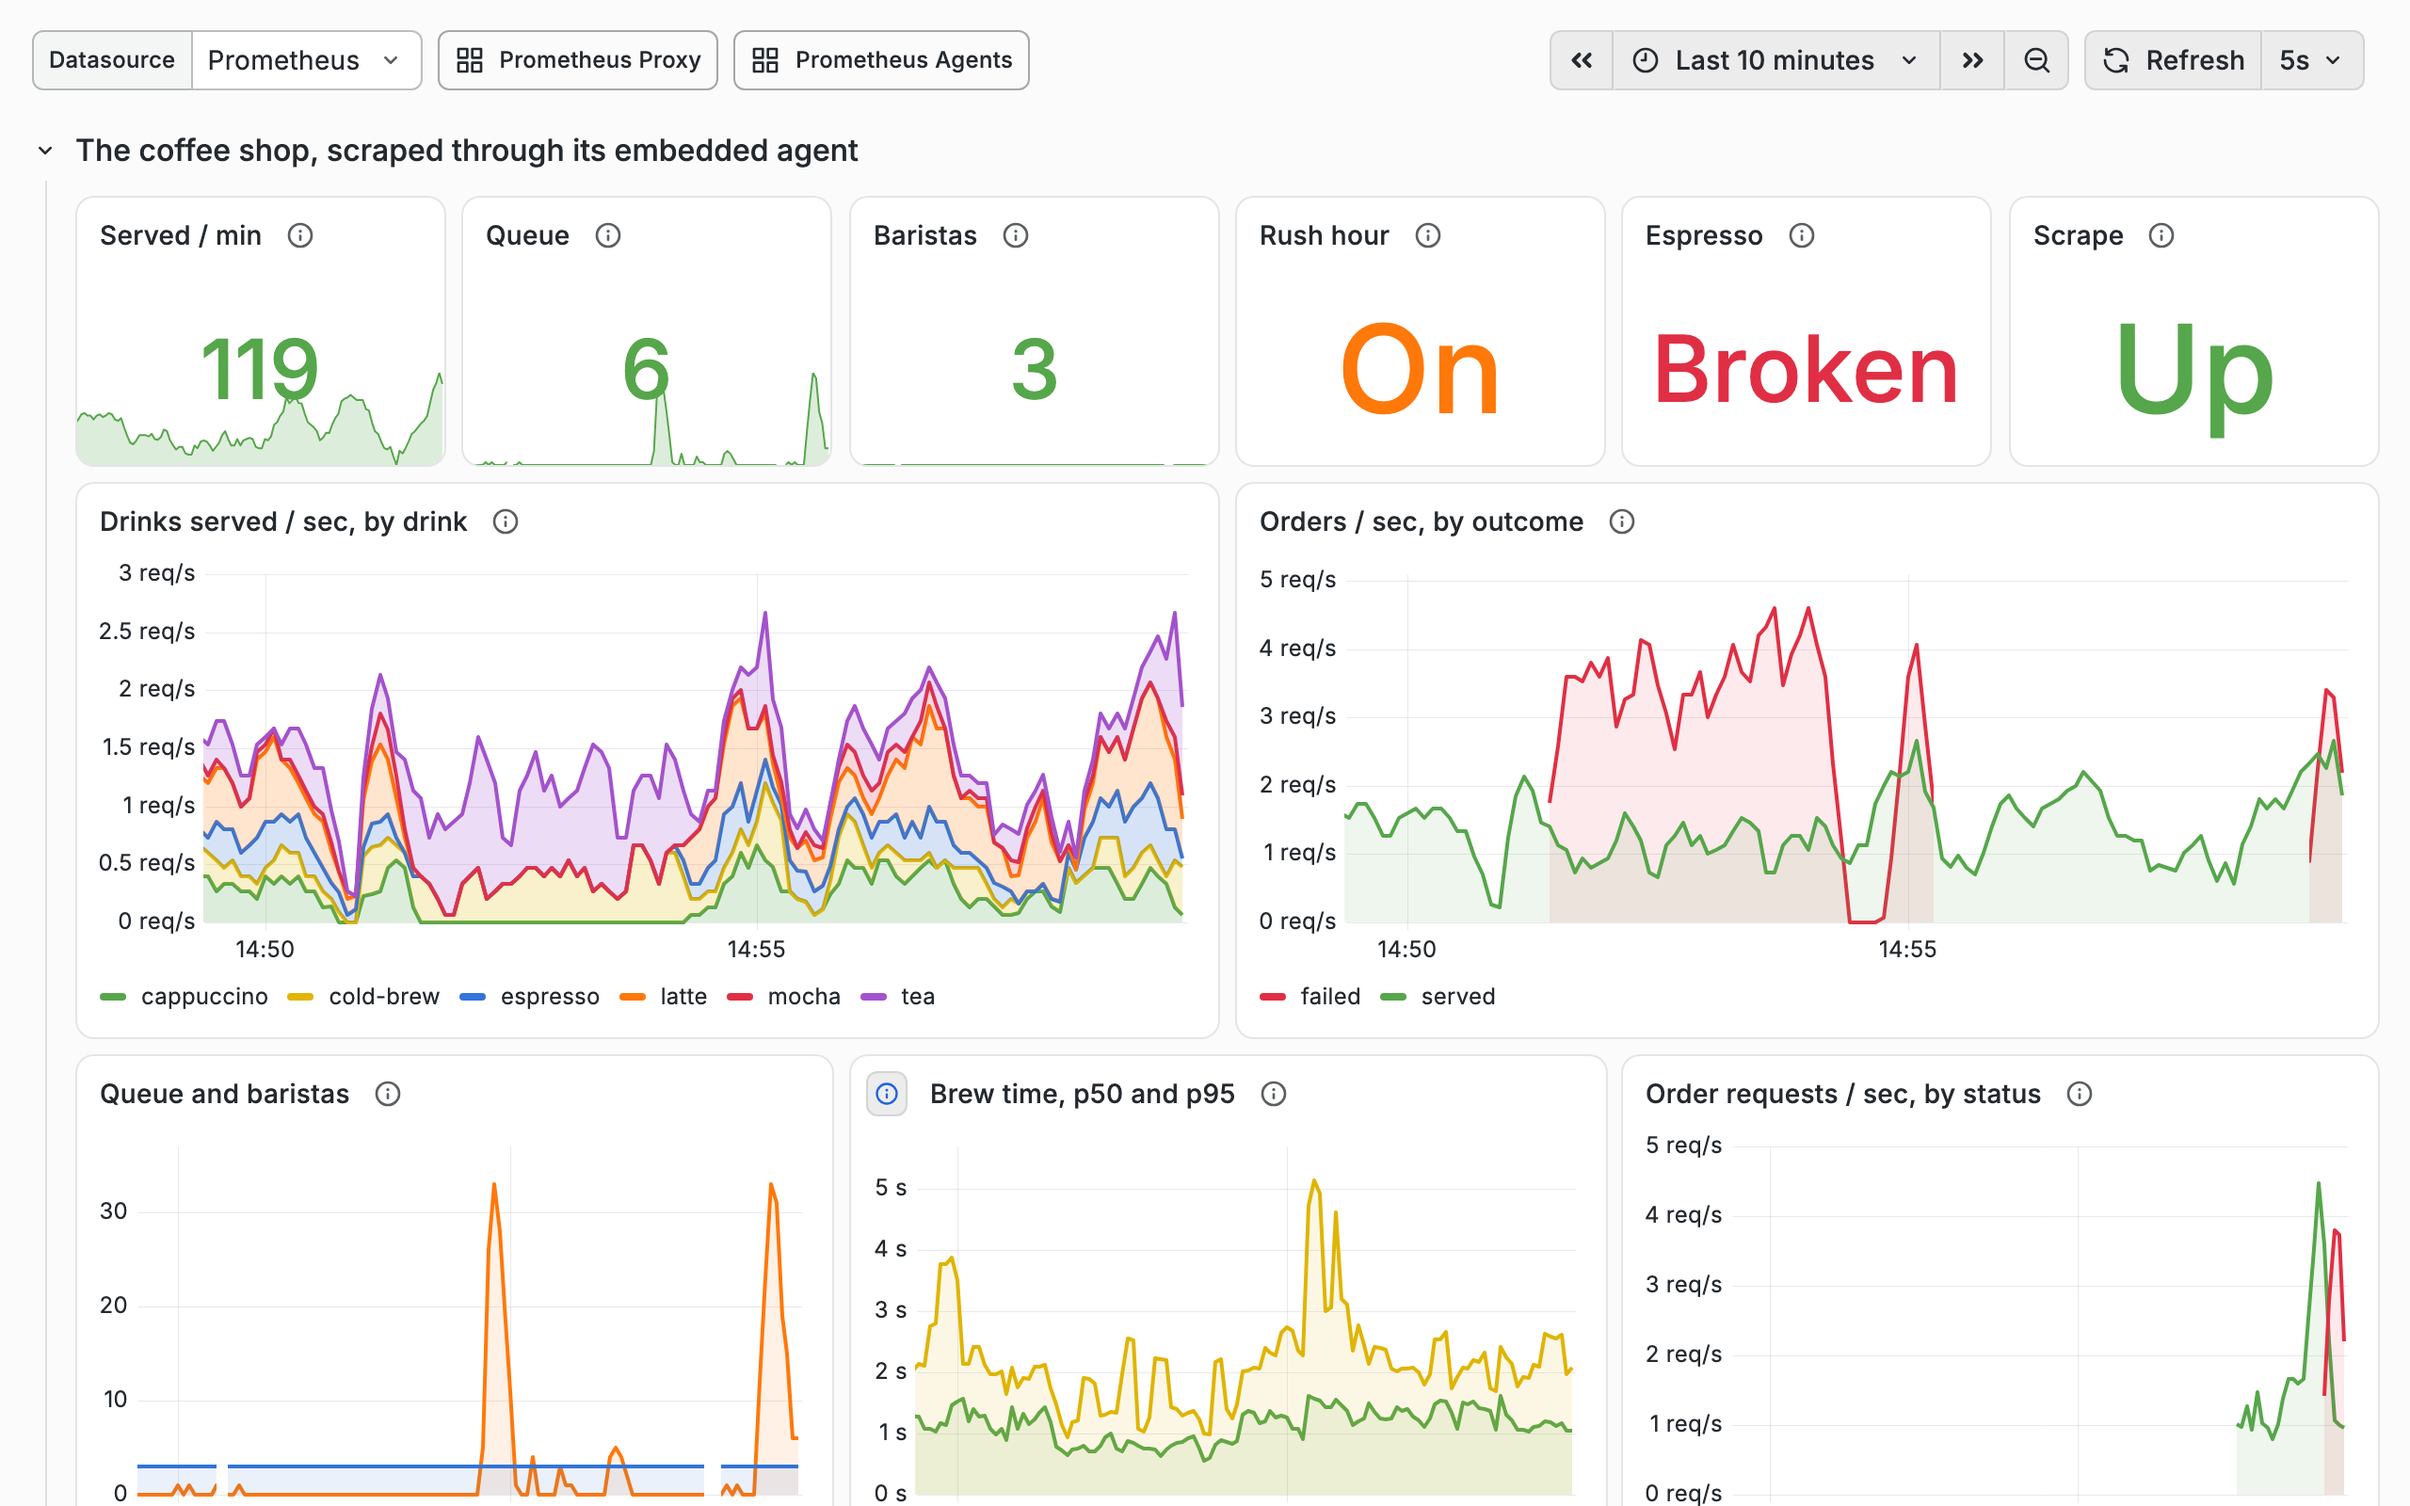
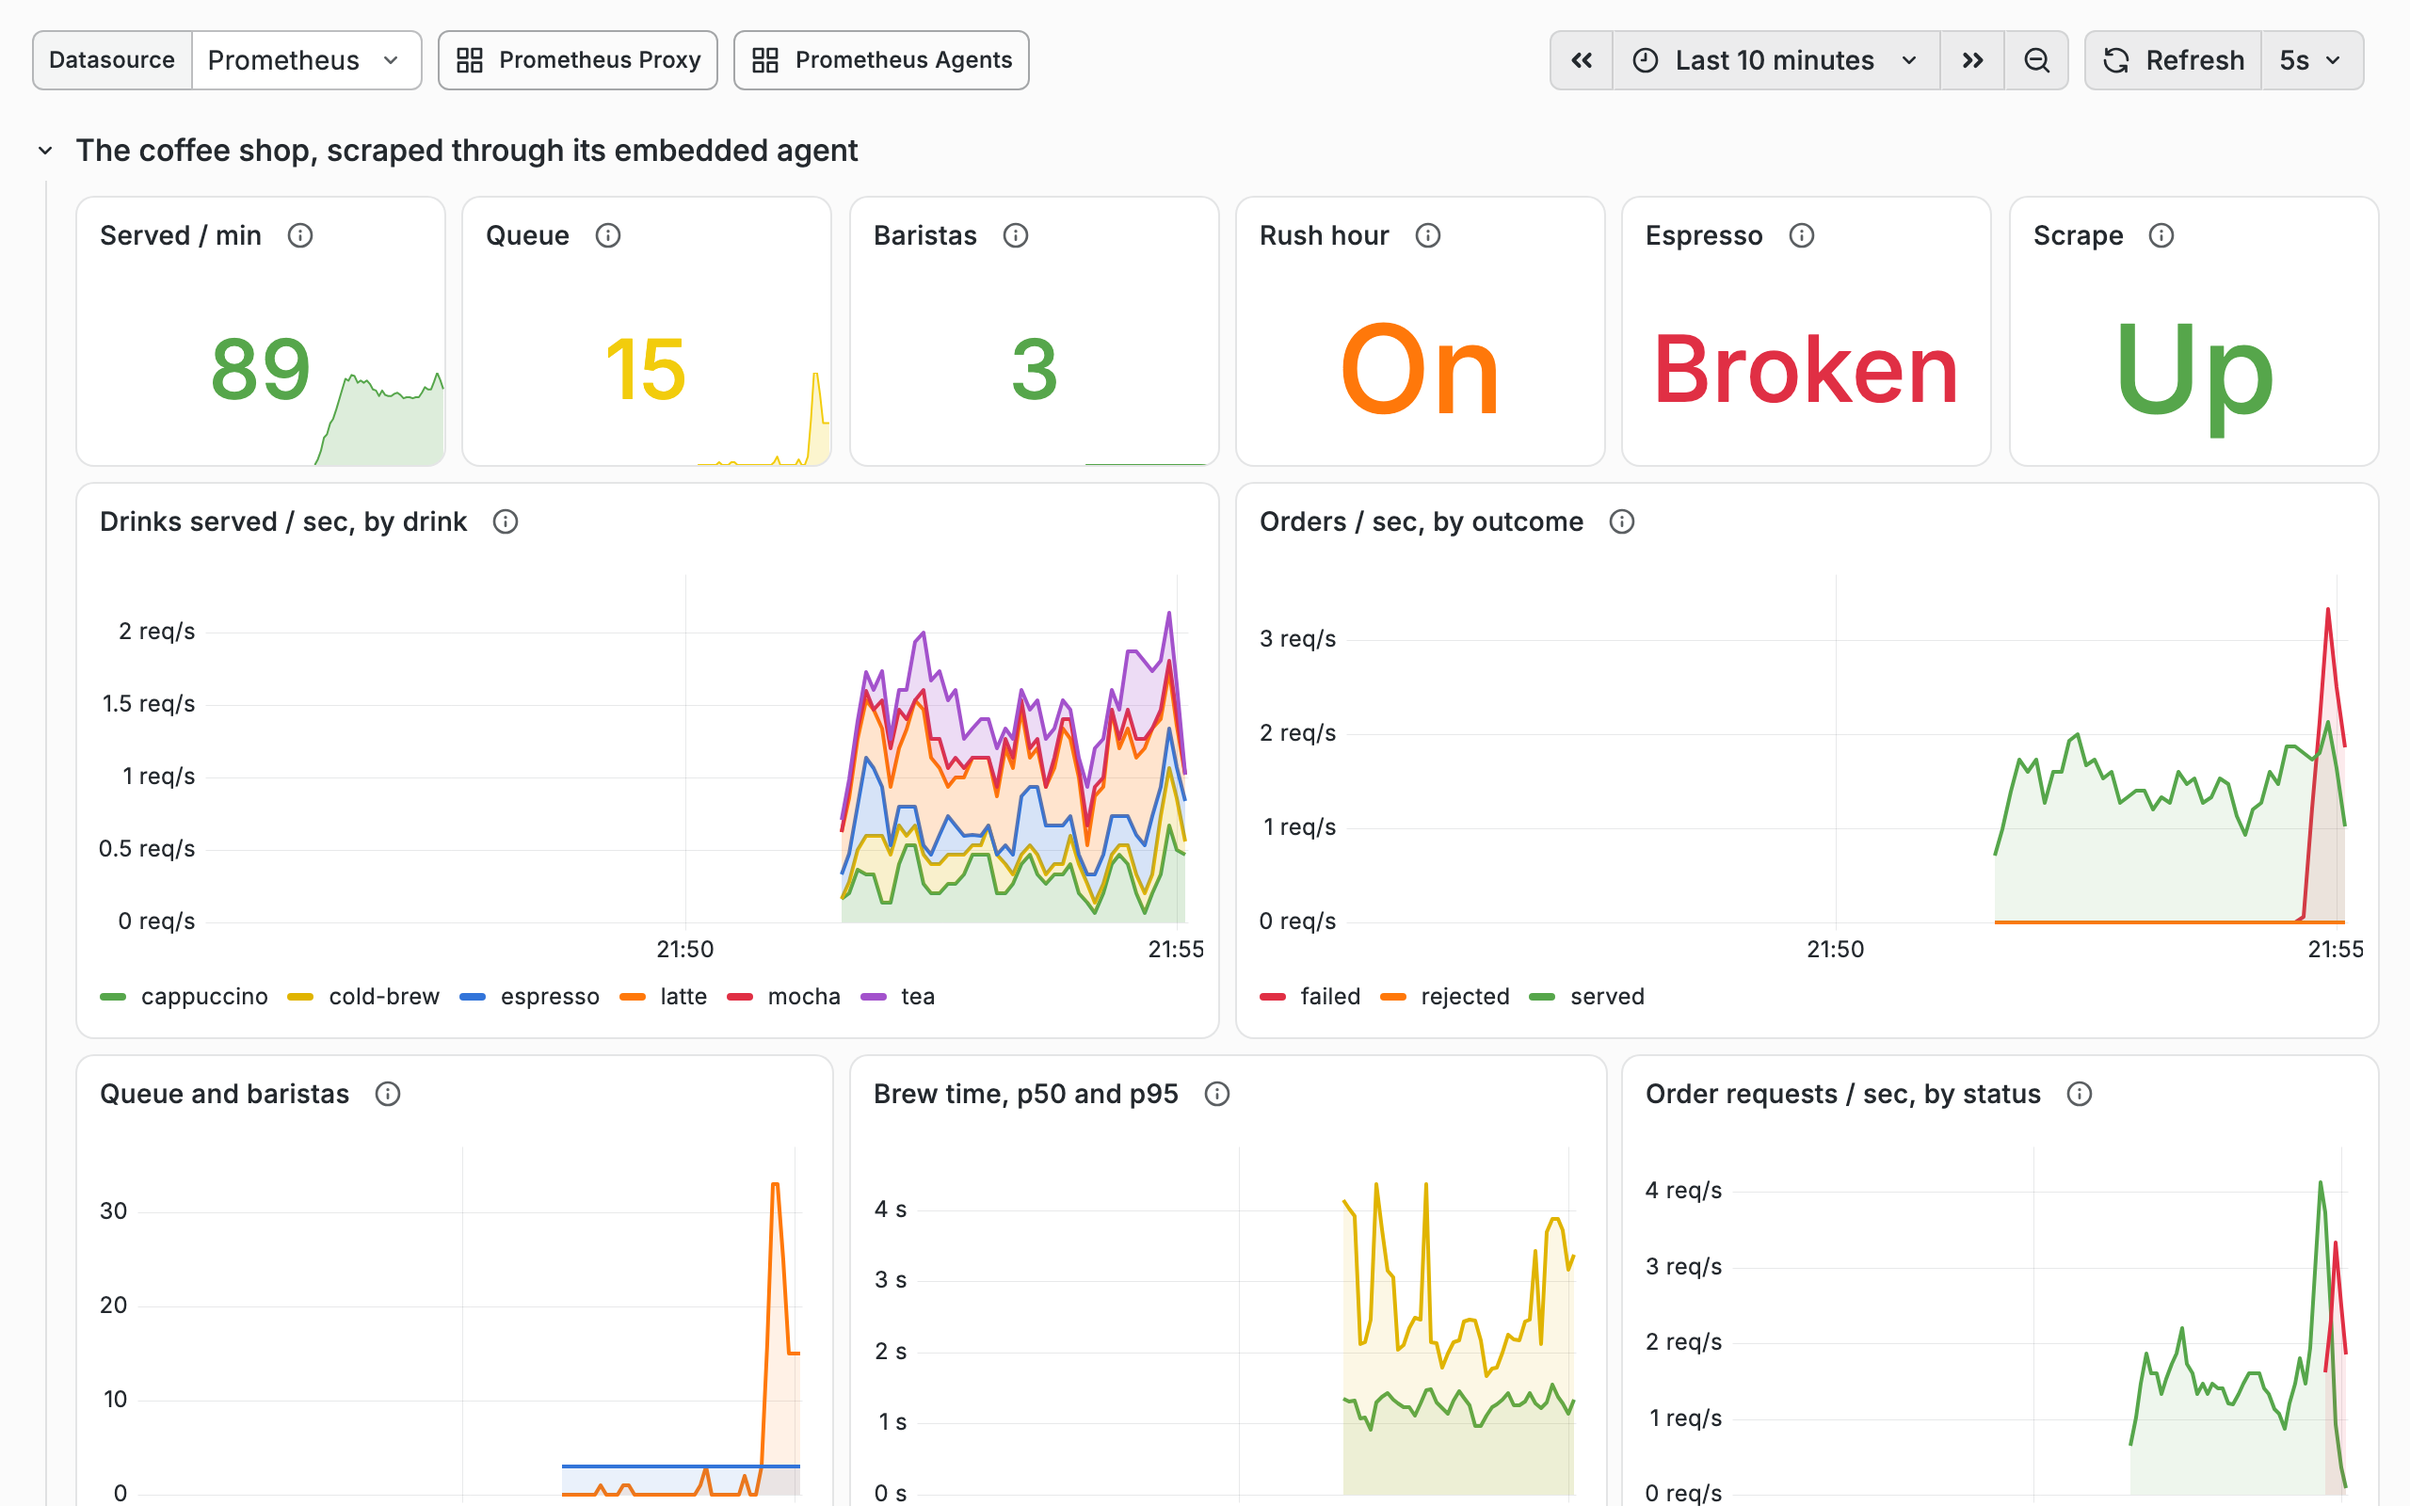
Retake the Embedded Demo screenshots, link Prometheus 3's query page, and lead the README's embedded example with Kotlin
- The Embedded Demo page's screenshots, retaken with make screenshots in demos/embedded: the coffee shop's subtitle
  no longer says the page refreshes, which it doesn't in a screenshot.
- The Web Dashboard page's Prometheus link examples, and the Links column the basics, network, and Kubernetes demos
  configure, open /query, Prometheus 3's query page, rather than /graph, which only redirects there.
- The README's Embedded Agent example shows Kotlin first, then Java, as the docs site's tabs do.

diff --git a/README.md b/README.md
@@ -474,16 +474,31 @@ agent. This approach eliminates the need for a separate agent process when your 
 
 > 📖 **Docs site:** [Embedded Agent guide](https://pambrose.github.io/prometheus-proxy/embedded-agent/) for the full API surface and lifecycle details.
 
-  ```Java
-  // Start embedded agent; false (exitOnMissingConfig) makes config errors throw instead of exiting the JVM
-  EmbeddedAgentInfo agentInfo = Agent.startAsyncAgent("configFile.conf", false);
+In Kotlin:
 
-  // Your application code runs here
-  // The agent runs in the background and does not block your application
+```kotlin
+// Start embedded agent; exitOnMissingConfig = false makes config errors throw instead of exiting the JVM
+val agentInfo = Agent.startAsyncAgent(configFilename = "configFile.conf", exitOnMissingConfig = false)
 
-  // Shutdown the agent when the application terminates
-  agentInfo.shutdown();
-  ```
+// Your application code runs here
+// The agent runs in the background and does not block your application
+
+// Shutdown the agent when the application terminates
+agentInfo.shutdown()
+```
+
+In Java:
+
+```java
+// Start embedded agent; false (exitOnMissingConfig) makes config errors throw instead of exiting the JVM
+EmbeddedAgentInfo agentInfo = Agent.startAsyncAgent("configFile.conf", false);
+
+// Your application code runs here
+// The agent runs in the background and does not block your application
+
+// Shutdown the agent when the application terminates
+agentInfo.shutdown();
+```
 
 If the configuration cannot be loaded (a parse error, an unreachable config URL, or a missing file), or it holds a
 setting the agent can't use (a value of the wrong type or out of range, an unresolved `${…}` substitution, or a trust

diff --git a/website/prometheus-proxy/docs/web-dashboard.md b/website/prometheus-proxy/docs/web-dashboard.md
@@ -225,7 +225,7 @@ proxy {
     links = [
       {
         name = "Prometheus"
-        url = "http://prometheus:9090/graph?g0.expr=up%7Bjob%3D%22{label.job}%22%7D"
+        url = "http://prometheus:9090/query?g0.expr=up%7Bjob%3D%22{label.job}%22%7D"
         icon = "prometheus"
       }
       { name = "Grafana", url = "http://grafana:3000/d/proxy-targets?var-job={label.job}", icon = "grafana" }
@@ -270,7 +270,7 @@ scrape_configs:
 
 The label holds the path with its leading slash, after any path prefix in `proxy.service.discovery.targetPrefix`, so
 with no prefix a link can query `up{path="/{path}"}`, written into the URL as
-`http://prometheus:9090/graph?g0.expr=up%7Bpath%3D%22%2F{path}%22%7D`.
+`http://prometheus:9090/query?g0.expr=up%7Bpath%3D%22%2F{path}%22%7D`.
 
 - **A missing value drops the link.** A row whose path lacks a value a template needs, such as a label it didn't
   register, gets no link for that template, never one with an empty slot. A row left with no link shows a dash.
